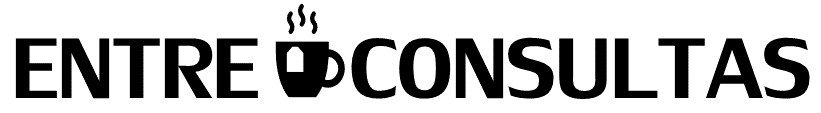
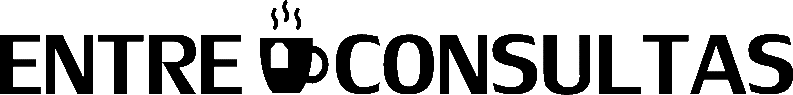
ajuste de nav

diff --git a/src/styles.css b/src/styles.css
@@ -28,9 +28,10 @@ main > h1 {
   height: 80px;
   display: block;
   margin: auto;
+  background-color: #f9b004;
 }
 #nav-bar img{
-  max-width:80%;
+  max-width:inherit;
   min-width: 300px;
   height: auto;
 }
